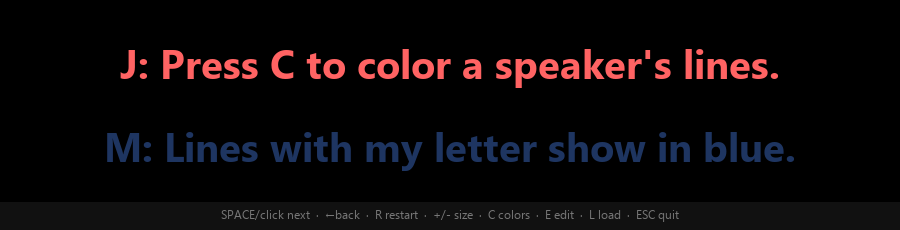
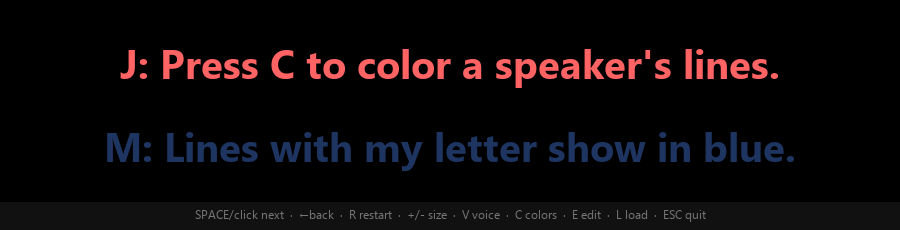
Add optional hands-free voice follow (press V)
Offline speech recognition (Vosk + sounddevice) auto-advances to the next
line when you finish reading the current one. Runs in a background thread
and marshals advances onto the Tk main loop. Matching tolerates extra,
skipped, or misheard words but requires the line's final word, so it only
advances once you actually reach the end.

Voice is fully optional and degrades gracefully: without the packages or a
model, pressing V shows a hint and the rest of the app is unaffected.
Adds requirements-voice.txt and tools/download_model.py, plus README docs.

Changed region(s): [[0.2178, 0.913, 0.7778, 0.9739]]

diff --git a/teleprompter.py b/teleprompter.py
@@ -14,7 +14,11 @@ Run:  python teleprompter.py
 """
 
 import os
+import re
 import json
+import queue
+import threading
+import glob as _glob
 import tkinter as tk
 from tkinter import font as tkfont
 from tkinter import filedialog, colorchooser
@@ -70,6 +74,146 @@ def ease(t):
     return 1 - (1 - t) ** 3      # ease-out cubic
 
 
+# ============================================================ voice following
+# Optional: auto-advance when you finish reading the current line out loud.
+# Uses Vosk (offline speech recognition) + sounddevice. Both are optional:
+#   pip install vosk sounddevice
+# and a model folder (e.g. vosk-model-small-en-us-0.15) placed next to this
+# script, or pointed to by the VOSK_MODEL environment variable.
+SAMPLE_RATE = 16000
+
+
+def norm_words(text):
+    """Lowercase word list for matching; drops a leading speaker tag like 'J:'."""
+    text = re.sub(r"^\s*[\w']{1,15}\s*:\s*", "", text)      # strip "J:" / "John:"
+    return re.sub(r"[^a-z0-9' ]+", " ", text.lower()).split()
+
+
+def find_model_path():
+    """Locate a Vosk model dir: $VOSK_MODEL, ./model, or ./vosk-model* nearby."""
+    env = os.environ.get("VOSK_MODEL")
+    if env and os.path.isdir(env):
+        return env
+    here = os.path.dirname(os.path.abspath(__file__))
+    cand = [os.path.join(here, "model")]
+    cand += sorted(_glob.glob(os.path.join(here, "vosk-model*")))
+    for c in cand:
+        if os.path.isdir(c):
+            return c
+    return None
+
+
+class VoiceFollower:
+    """Background listener that advances the prompter when the current line is
+    read aloud. Safe no-op if vosk / sounddevice / a model aren't available."""
+
+    def __init__(self, app):
+        self.app = app
+        self.running = False
+        self.thread = None
+        self.lock = threading.Lock()
+        self.targets = []
+        self._consumed = False
+        self._need_reset = False
+        self.error = None
+
+    @staticmethod
+    def deps_ok():
+        try:
+            import vosk            # noqa: F401
+            import sounddevice     # noqa: F401
+            return True
+        except Exception:
+            return False
+
+    def set_line(self, text):
+        """Tell the listener which line it's currently waiting to hear finished."""
+        with self.lock:
+            self.targets = norm_words(text)
+            self._consumed = False
+            self._need_reset = True
+
+    def start(self):
+        if self.running:
+            return True
+        if not self.deps_ok():
+            self.error = "pip install vosk sounddevice"
+            return False
+        if not find_model_path():
+            self.error = "no Vosk model found (see README)"
+            return False
+        self.error = None
+        self.running = True
+        self.thread = threading.Thread(target=self._run, daemon=True)
+        self.thread.start()
+        return True
+
+    def stop(self):
+        self.running = False
+
+    # ------------------------------------------------------------- matching
+    @staticmethod
+    def _complete(words, targets):
+        """True once the spoken words cover the target line. Matches target words
+        as an in-order subsequence of what was heard (so it tolerates extra,
+        skipped, or misheard words), then requires good coverage AND that the
+        line's final word was heard — i.e. the reader actually reached the end."""
+        if not targets:
+            return False
+        ti = matched = 0
+        for w in words:
+            for j in range(ti, len(targets)):
+                if targets[j] == w:
+                    ti, matched = j + 1, matched + 1
+                    break
+        if matched >= len(targets):
+            return True
+        heard_last = targets[-1] in words
+        if len(targets) >= 4:
+            return heard_last and matched / len(targets) >= 0.7
+        return heard_last and matched >= len(targets) - 1
+
+    # --------------------------------------------------------- audio thread
+    def _run(self):
+        try:
+            import vosk
+            import sounddevice as sd
+            vosk.SetLogLevel(-1)
+            model = vosk.Model(find_model_path())
+            q = queue.Queue()
+
+            def cb(indata, frames, time_info, status):
+                q.put(bytes(indata))
+
+            with sd.RawInputStream(samplerate=SAMPLE_RATE, blocksize=8000,
+                                   dtype="int16", channels=1, callback=cb):
+                rec = vosk.KaldiRecognizer(model, SAMPLE_RATE)
+                while self.running:
+                    if self._need_reset:
+                        rec = vosk.KaldiRecognizer(model, SAMPLE_RATE)
+                        self._need_reset = False
+                    try:
+                        data = q.get(timeout=0.2)
+                    except queue.Empty:
+                        continue
+                    if rec.AcceptWaveform(data):
+                        words = json.loads(rec.Result()).get("text", "").split()
+                    else:
+                        words = json.loads(rec.PartialResult()).get("partial", "").split()
+                    with self.lock:
+                        targets = list(self.targets)
+                        consumed = self._consumed
+                    if targets and not consumed and self._complete(words, targets):
+                        with self.lock:
+                            self._consumed = True
+                        self._need_reset = True
+                        self.app.root.after(0, self.app.voice_advance)
+        except Exception as exc:                      # mic error, etc.
+            self.error = str(exc)
+            self.running = False
+            self.app.root.after(0, self.app.on_voice_error)
+
+
 class Teleprompter:
     def __init__(self, root):
         self.root = root
@@ -79,8 +223,10 @@ class Teleprompter:
         self.editing = False
         self.in_settings = False
         self.animating = False
+        self.voice_on = False
         self.colors = {}             # letter -> (r, g, b)
         self.load_config()
+        self.voice = VoiceFollower(self)
 
         # --- window: always on top, borderless, dark, draggable -------------
         root.title("Teleprompter")
@@ -103,6 +249,9 @@ class Teleprompter:
                                                  font=self.font, justify="center")
         self.extra_item = self.canvas.create_text(0, 0, text="", fill=hexcol(BG),
                                                   font=self.font, justify="center")
+        # small mic indicator, shown only while voice-follow is active
+        self.mic_item = self.canvas.create_text(0, 0, text="", fill="#38d66b",
+                                                font=self.small, anchor="ne")
 
         # hint / status bar
         self.hint = tk.Label(root, text=self.RUN_HINT, font=self.small,
@@ -136,6 +285,8 @@ class Teleprompter:
         root.bind("L", lambda e: self.load_file())
         root.bind("c", lambda e: self.toggle_settings())
         root.bind("C", lambda e: self.toggle_settings())
+        root.bind("v", lambda e: self.toggle_voice())
+        root.bind("V", lambda e: self.toggle_voice())
         root.bind("<Escape>", lambda e: self.on_escape())
 
         # click to advance; drag (left or right button) to move the window
@@ -150,7 +301,7 @@ class Teleprompter:
         root.focus_force()
 
     RUN_HINT = ("SPACE/click next  ·  ←back  ·  R restart  ·  +/- size  ·  "
-                "C colors  ·  E edit  ·  L load  ·  drag to move  ·  ESC quit")
+                "V voice  ·  C colors  ·  E edit  ·  L load  ·  ESC quit")
 
     # -------------------------------------------------------------- config I/O
     def load_config(self):
@@ -217,6 +368,13 @@ class Teleprompter:
         self.canvas.coords(self.cur_item, cx, y_cur)
         self.canvas.coords(self.next_item, cx, y_next)
         self.canvas.coords(self.extra_item, cx, y_next + (y_next - y_cur))
+
+        # mic indicator + tell the voice listener which line to wait for
+        self.canvas.coords(self.mic_item, 2 * cx - 12, 10)
+        self.canvas.itemconfig(self.mic_item,
+                               text="🎤 listening…" if self.voice_on else "")
+        if self.voice_on and not end:
+            self.voice.set_line(cur_text)
 
     # ------------------------------------------------------------- navigation
     def next(self):
@@ -448,6 +606,35 @@ class Teleprompter:
         self.save_config()
         self.build_settings()
 
+    # ---------------------------------------------------------- voice follow
+    def toggle_voice(self):
+        if self.editing or self.in_settings:
+            return
+        if self.voice_on:
+            self.voice.stop()
+            self.voice_on = False
+            self.hint.config(text=self.RUN_HINT)
+            self.render()
+            return
+        if self.voice.start():
+            self.voice_on = True
+            self.hint.config(text="Voice-follow ON — read the top line; it advances "
+                                  "when you finish.  Press V to stop.")
+            self.render()
+        else:
+            self.hint.config(text=f"Voice unavailable: {self.voice.error}  "
+                                  "(see README).  Press any key.")
+
+    def voice_advance(self):
+        """Called from the listener thread (via after) when a line was read."""
+        if self.voice_on and not self.editing and not self.in_settings:
+            self.next()
+
+    def on_voice_error(self):
+        self.voice_on = False
+        self.hint.config(text=f"Voice stopped: {self.voice.error}")
+        self.render()
+
     # --------------------------------------------------------------- escape
     def on_escape(self):
         if self.editing:
@@ -455,6 +642,7 @@ class Teleprompter:
         elif self.in_settings:
             self.toggle_settings()
         else:
+            self.voice.stop()
             self.root.destroy()
 
 

diff --git a/tools/download_model.py b/tools/download_model.py
@@ -1,0 +1,52 @@
+#!/usr/bin/env python3
+"""Download a small English Vosk model for the voice-follow feature.
+
+Fetches vosk-model-small-en-us-0.15 (~40 MB) and unzips it next to
+teleprompter.py as ./model, which the app auto-detects.
+
+Run:  python tools/download_model.py
+"""
+
+import os
+import sys
+import zipfile
+import urllib.request
+
+URL = "https://alphacephei.com/vosk/models/vosk-model-small-en-us-0.15.zip"
+HERE = os.path.dirname(os.path.abspath(__file__))
+ROOT = os.path.dirname(HERE)
+ZIP_PATH = os.path.join(ROOT, "vosk-model-small-en-us-0.15.zip")
+EXTRACT_NAME = "vosk-model-small-en-us-0.15"
+TARGET = os.path.join(ROOT, "model")
+
+
+def report(done, total):
+    if total > 0:
+        pct = done * 100 // total
+        sys.stdout.write(f"\rDownloading model... {pct:3d}%")
+        sys.stdout.flush()
+
+
+def main():
+    if os.path.isdir(TARGET):
+        print(f"'{TARGET}' already exists — nothing to do.")
+        return
+    print(f"Fetching {URL}")
+    got = {"n": 0}
+
+    def hook(block, block_size, total):
+        got["n"] += block_size
+        report(min(got["n"], total), total)
+
+    urllib.request.urlretrieve(URL, ZIP_PATH, hook)
+    print("\nUnzipping...")
+    with zipfile.ZipFile(ZIP_PATH) as z:
+        z.extractall(ROOT)
+    os.rename(os.path.join(ROOT, EXTRACT_NAME), TARGET)
+    os.remove(ZIP_PATH)
+    print(f"Done. Model ready at: {TARGET}")
+    print("Now run the app and press V to start voice-follow.")
+
+
+if __name__ == "__main__":
+    main()

diff --git a/tools/generate_preview.py b/tools/generate_preview.py
@@ -15,7 +15,7 @@ HINT_H = 28
 BG = (0, 0, 0)
 DIM_FACTOR = 0.62
 HINT_TEXT = ("SPACE/click next  ·  ←back  ·  R restart  ·  +/- size  ·  "
-             "C colors  ·  E edit  ·  L load  ·  ESC quit")
+             "V voice  ·  C colors  ·  E edit  ·  L load  ·  ESC quit")
 
 HERE = os.path.dirname(os.path.abspath(__file__))
 DOCS = os.path.join(os.path.dirname(HERE), "docs")

diff --git a/README.md b/README.md
@@ -23,6 +23,23 @@ M: And my line goes here.
 
 Your color choices are saved to `teleprompter_config.json` next to the script.
 
+**Hands-free voice follow (optional):** press **V** and the app listens with your
+mic and automatically advances to the next line the moment you finish reading the
+current one — no clicking, no remote. It uses offline speech recognition
+([Vosk](https://alphacephei.com/vosk/)), so nothing leaves your computer.
+
+Voice follow is entirely optional — the core teleprompter needs no extra
+packages. To enable it:
+
+```sh
+pip install -r requirements-voice.txt      # vosk + sounddevice
+python tools/download_model.py             # fetches a ~40 MB English model -> ./model
+```
+
+Then run the app and press **V**. (You can also point at any Vosk model via the
+`VOSK_MODEL` environment variable.) If the packages or model aren't present,
+pressing **V** just shows a hint and everything else keeps working.
+
 ## Run
 
 ```sh
@@ -37,6 +54,10 @@ and macOS; on Linux install `python3-tk`).
 Grab `CameraTeleprompter.exe` from the
 [latest release](https://github.com/EithanTuy/camera-teleprompter/releases/latest)
 and double-click it — no install, no Python required.
+
+> Note: the prebuilt `.exe` includes everything **except** voice follow (which
+> needs the Vosk speech model). For hands-free voice follow, run from Python as
+> described below.
 
 ### Build the .exe yourself
 
@@ -55,6 +76,7 @@ The executable lands in `dist\CameraTeleprompter.exe`.
 | `←` / `↑`           | Previous line                         |
 | `R`                 | Restart from the top                  |
 | `+` / `-`           | Bigger / smaller text                 |
+| `V`                 | Voice follow: auto-advance when you finish a line |
 | `C`                 | Settings: speaker letter → color      |
 | `E`                 | Edit / paste your script in-window    |
 | `L`                 | Load a `.txt` script file             |
